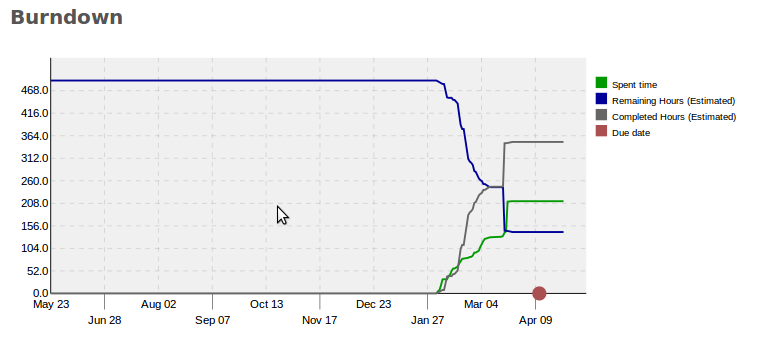
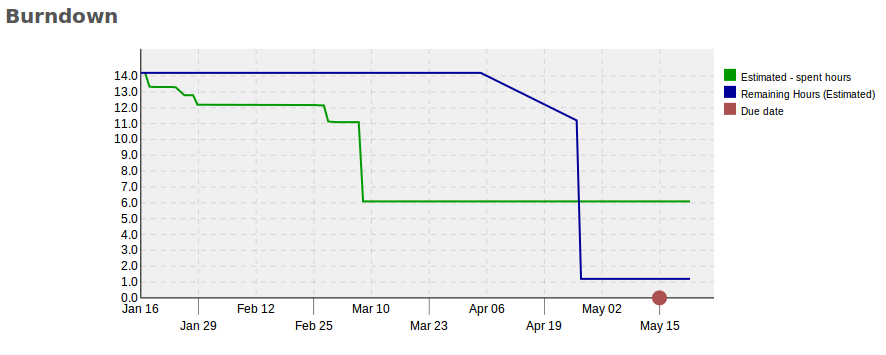
Closes #14: change how estimated minus spent calculated

diff --git a/assets/stylesheets/burndown.css b/assets/stylesheets/burndown.css
@@ -2,13 +2,12 @@
 
 .line1 { stroke: #009900 !important; } .fill1 { fill: none !important; } .key1 { fill: #009900 !important; }
 .line2 { stroke: #000099 !important; } .fill2 { fill: none !important; } .key2 { fill: #000099 !important; }
-.line3 { stroke: #666666 !important; } .fill3 { fill: none !important; } .key3 { fill: #666666 !important; }
 
-.fill1, .fill2, .fill3 { fill-opacity: 0.6 !important; }
-.line1, .line2, .line3 { stroke-width: 2px !important; }
+.fill1, .fill2 { fill-opacity: 0.6 !important; }
+.line1, .line2 { stroke-width: 2px !important; }
 
-.dataPoint1, .dataPoint2, .dataPoint3 { display: none !important; }
-.dataPoint4 { stroke: #AA5050 !important; stroke-width: 10px !important; }
-.key4 { fill: #AA5050 !important; }
+.dataPoint1, .dataPoint2 { display: none !important; }
+.dataPoint3 { stroke: #AA5050 !important; stroke-width: 10px !important; }
+.key3 { fill: #AA5050 !important; }
 
 .guideLines { stroke-opacity: 0.2 !important; }

diff --git a/app/controllers/graphs_controller.rb b/app/controllers/graphs_controller.rb
@@ -385,17 +385,13 @@ class GraphsController < ApplicationController
         line_end_date = scope_end_date if scope_end_date < line_end_date
                     
         
-        # Generate the spent_time line
-        spent_hours = 0
+        # Generate the estimated - spent_time line
+        spent_hours = @estimated_hours
         spent_on_line = Hash.new
         
         # Generate the remaining_hours line
         remaining_hours = @estimated_hours
         remaining_on_line = Hash.new
-        
-        # Generate the estimated - remaining line
-        completed_hours = 0
-        completed_on_line = Hash.new
         
         all_dates = issues_by_created_on + issues_by_closed_on + time_entries_by_spent_on
         all_dates = all_dates.sort! { |x,y| x.first <=> y.first }
@@ -403,17 +399,14 @@ class GraphsController < ApplicationController
           objects.each { | object |
             if object.is_a? Issue
               remaining_on_line[(key-1).to_s] = remaining_hours
-              completed_on_line[(key-1).to_s] = completed_hours
               hours = object.estimated_hours.nil? ? 0 : object.estimated_hours 
               if object.closed? && key == object.updated_on.to_date
                 remaining_hours -= remaining_hours >= hours ? hours : remaining_hours
-                completed_hours += hours
                 remaining_on_line[key.to_s] = remaining_hours
-                completed_on_line[key.to_s] = completed_hours
               end
            elsif object.is_a? TimeEntry
             spent_on_line[(key-1).to_s] = spent_hours
-            spent_hours += object.hours.to_f
+            spent_hours -= object.hours.to_f
             spent_on_line[key.to_s] = spent_hours   
            end
           }
@@ -422,19 +415,13 @@ class GraphsController < ApplicationController
         spent_on_line[scope_end_date.to_s] = spent_hours
         graph.add_data({
             :data => spent_on_line.sort.flatten,
-            :title => l(:label_spent_time).capitalize
+            :title => l(:label_estimated_minus_spent_time).capitalize
         })
         
         remaining_on_line[scope_end_date.to_s] = remaining_hours
         graph.add_data({
           :data => remaining_on_line.sort.flatten,
           :title => l(:label_graphs_remaining_hours)
-        })
-        
-        completed_on_line[scope_end_date.to_s] = completed_hours
-        graph.add_data({
-          :data => completed_on_line.sort.flatten,
-          :title => l(:label_graphs_completed_work)
         })
         
         # Add the version due date marker

diff --git a/README.md b/README.md
@@ -54,11 +54,10 @@ Shows the number of total open vs closed bugs on a project.  Will also show the 
 Display the progress of a project relative to time spent.  Intended to be used to track a project progress 
 relative to an ideal schedule.
 
-* _Spent time_: The total of all time logged to the project
 * _Remaining Hours (Estimated)_: The total estimated time of all open issues (assumes that all issues begin at the project start
 date
-* _Completed Hours (Estimated)_: the total estimated time of closed issues on the project.  Comparing with the spent time 
-provides a metric for measuring the accuracy of the project's time estimates
+* _Estimated - Spent Hours_: the time spent on the project subtracted from the total estimated time.  Comparing with the remaining 
+hours provides a metric for measuring the accuracy of the project's time estimates and developer efficiency
 * _Due Date_: the target date of the project/version
 
 ![burndown](/img/burndown.png "Burndown")
